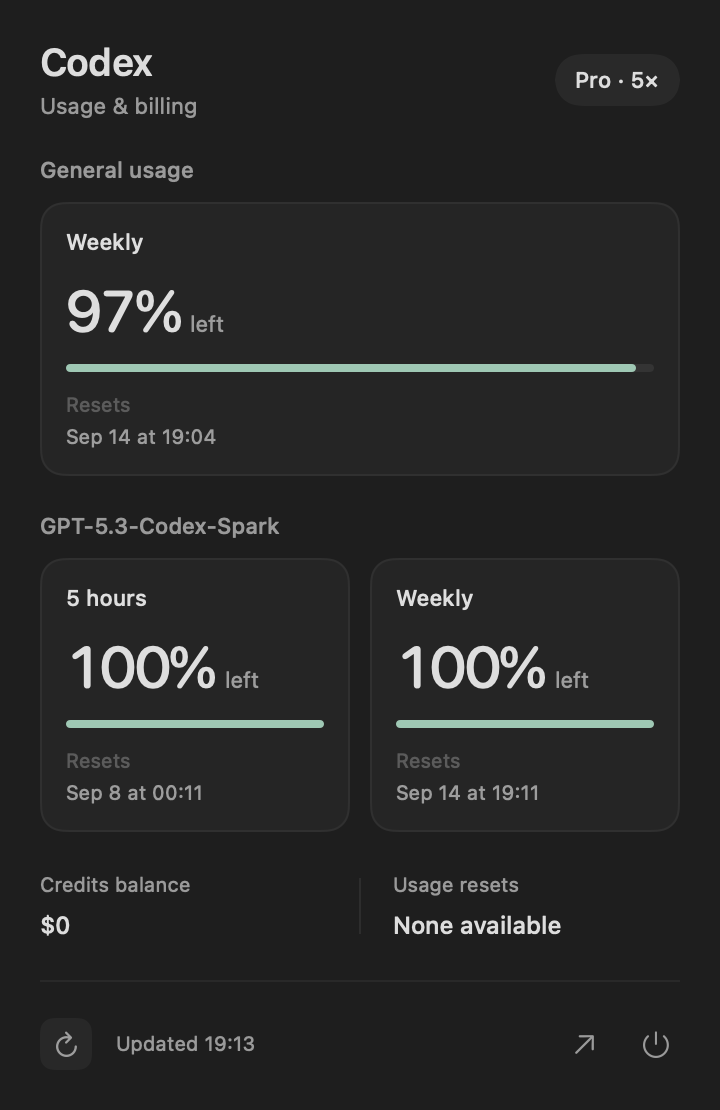
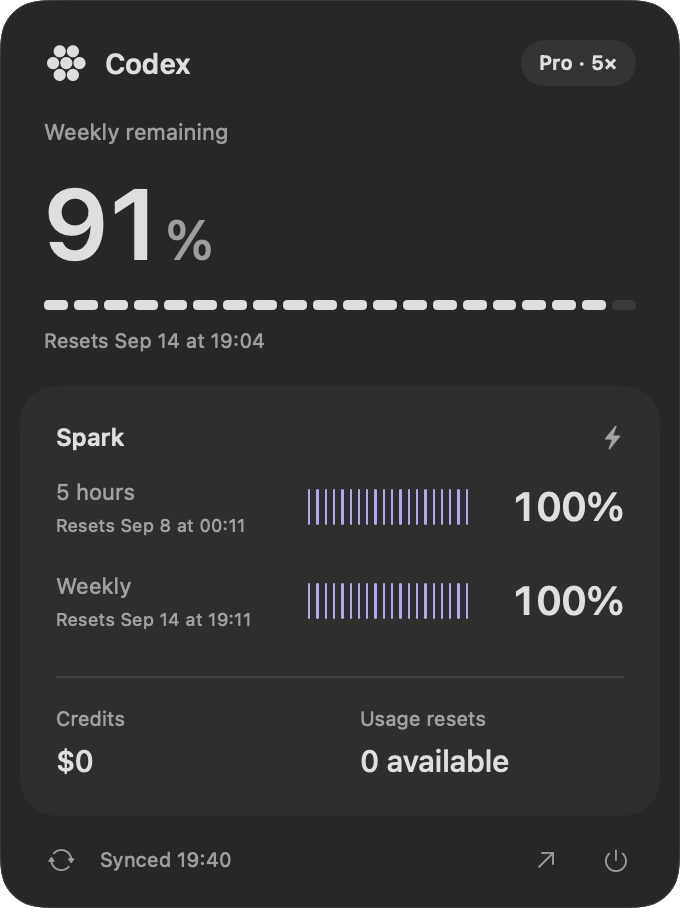
Keep quota panel on screen and add adaptive frosted design

diff --git a/Sources/CodexQuota/main.swift b/Sources/CodexQuota/main.swift
@@ -36,6 +36,7 @@ struct QuotaSnapshot {
     let resets: Int?
     var menuTitle: String {
         guard let windows = groups.first?.windows, !windows.isEmpty else { return "Codex —" }
+        if windows.count == 1 { return "\(windows[0].remaining)%" }
         return windows.map { "\($0.remaining)% · \($0.shortLabel)" }.joined(separator: "  ")
     }
     static func parse(_ json: [String: Any]) -> QuotaSnapshot {
@@ -72,110 +73,169 @@ final class QuotaModel: ObservableObject {
     @Published var updated: Date?
 }
 
+// Keep the entire panel on the screen containing the status item, including
+// secondary displays with negative origins and displays above the main screen.
+func quotaPanelFrame(anchor: NSRect, visibleFrame: NSRect) -> NSRect {
+    let safe = visibleFrame.insetBy(dx: 10, dy: 10)
+    let size = NSSize(width: min(340, safe.width), height: min(454, safe.height))
+    return NSRect(x: min(max(anchor.maxX - size.width, safe.minX), safe.maxX - size.width),
+                  y: min(max(anchor.minY - size.height - 8, safe.minY), safe.maxY - size.height),
+                  width: size.width, height: size.height)
+}
+
+struct FrostedBackground: NSViewRepresentable {
+    func makeNSView(context: Context) -> NSVisualEffectView {
+        let view = NSVisualEffectView()
+        view.material = .popover
+        view.blendingMode = .behindWindow
+        view.state = .active
+        return view
+    }
+    func updateNSView(_ view: NSVisualEffectView, context: Context) {}
+}
+
 struct QuotaPanel: View {
     @ObservedObject var model: QuotaModel
     let refresh: () -> Void
     let quit: () -> Void
-    private let accent = Color(red: 0.58, green: 0.79, blue: 0.70)
+    @Environment(\.colorScheme) private var scheme
+    @Environment(\.accessibilityReduceTransparency) private var reduceTransparency
     var body: some View {
-        VStack(alignment: .leading, spacing: 18) {
-            HStack(alignment: .center) {
-                VStack(alignment: .leading, spacing: 3) {
-                    Text("Codex").font(.system(size: 19, weight: .semibold))
-                    Text("Usage & billing").font(.system(size: 11)).foregroundStyle(.secondary)
-                }
+        VStack(spacing: 0) {
+            HStack(spacing: 8) {
+                Image(systemName: "circle.hexagongrid.fill").font(.system(size: 18, weight: .medium))
+                Text("Codex").font(.system(size: 14, weight: .semibold))
                 Spacer()
                 Text(model.snapshot?.plan ?? "Account")
-                    .font(.system(size: 11, weight: .medium))
-                    .padding(.horizontal, 10).padding(.vertical, 6)
-                    .background(.primary.opacity(0.06), in: Capsule())
-            }
-            if let snapshot = model.snapshot {
-                ForEach(Array(snapshot.groups.enumerated()), id: \.offset) { _, group in
-                    VStack(alignment: .leading, spacing: 9) {
-                        Text(group.name).font(.system(size: 11, weight: .medium)).foregroundStyle(.secondary)
-                        if group.windows.isEmpty {
-                            Text("No usage window reported").font(.system(size: 12)).foregroundStyle(.secondary)
-                        } else {
-                            HStack(alignment: .top, spacing: 10) {
-                                ForEach(Array(group.windows.enumerated()), id: \.offset) { _, window in
-                                    windowCard(window)
+                    .font(.system(size: 10, weight: .semibold))
+                    .padding(.horizontal, 9).padding(.vertical, 5)
+                    .background(.primary.opacity(0.07), in: Capsule())
+            }.padding(.horizontal, 22).padding(.top, 20).padding(.bottom, 16)
+            ScrollView {
+                VStack(alignment: .leading, spacing: 16) {
+                    if let snapshot = model.snapshot {
+                        if let general = snapshot.groups.first, !general.windows.isEmpty {
+                            HStack(alignment: .top, spacing: 20) {
+                                ForEach(Array(general.windows.enumerated()), id: \.offset) { _, window in
+                                    primaryMetric(window, single: general.windows.count == 1)
                                 }
-                            }
+                            }.padding(.horizontal, 22)
+                        } else {
+                            Text(snapshot.plan == "API" ? "Subscription usage is not available in API mode." : "No usage window reported.")
+                                .font(.system(size: 12)).foregroundStyle(.secondary).padding(.horizontal, 22)
                         }
+                        VStack(alignment: .leading, spacing: 0) {
+                            ForEach(Array(snapshot.groups.dropFirst().enumerated()), id: \.offset) { _, group in
+                                HStack {
+                                    Text(group.name.replacingOccurrences(of: "GPT-5.3-Codex-Spark", with: "Spark"))
+                                        .font(.system(size: 12, weight: .semibold))
+                                    Spacer()
+                                    Image(systemName: "bolt.fill").font(.system(size: 11)).foregroundStyle(.secondary)
+                                }.padding(.bottom, 4)
+                                ForEach(Array(group.windows.enumerated()), id: \.offset) { _, window in
+                                    additionalRow(window)
+                                }
+                                Divider().overlay(.primary.opacity(0.03)).padding(.vertical, 14)
+                            }
+                            HStack(alignment: .top, spacing: 20) {
+                                smallMetric("Credits", value: snapshot.balance ?? "Unavailable")
+                                smallMetric("Usage resets", value: snapshot.resets.map { "\($0) available" } ?? "Unavailable")
+                            }
+                        }.padding(18)
+                            .background(.primary.opacity(scheme == .dark ? 0.035 : 0.025), in: RoundedRectangle(cornerRadius: 18))
+                            .padding(.horizontal, 10)
+                    } else {
+                        HStack { ProgressView().controlSize(.small); Text("Loading usage…") }
+                            .font(.system(size: 12)).padding(22)
                     }
-                }
-                HStack(spacing: 0) {
-                    metric("Credits balance", value: snapshot.balance ?? "Unavailable")
-                    Rectangle().fill(.primary.opacity(0.08)).frame(width: 1, height: 28).padding(.horizontal, 16)
-                    metric("Usage resets", value: snapshot.resets.map { $0 == 0 ? "None available" : "\($0) available" } ?? "Unavailable")
-                }.padding(.vertical, 2)
-            } else if model.loading {
-                HStack { ProgressView().controlSize(.small); Text("Loading usage…").font(.system(size: 12)) }.padding(.vertical, 28)
-            }
-            if let error = model.error {
-                Label(error, systemImage: "exclamationmark.circle")
-                    .font(.system(size: 11)).foregroundStyle(.orange).fixedSize(horizontal: false, vertical: true)
-            }
-            Divider().opacity(0.5)
-            HStack(spacing: 12) {
-                Button(action: refresh) {
-                    Image(systemName: "arrow.clockwise").font(.system(size: 12, weight: .medium))
-                        .frame(width: 26, height: 26).background(.primary.opacity(0.05), in: RoundedRectangle(cornerRadius: 7))
-                }.buttonStyle(.plain).disabled(model.loading).help("Refresh usage (⌘R)").keyboardShortcut("r")
-                Text(model.loading ? "Refreshing…" : model.updated.map { "Updated \($0.formatted(date: .omitted, time: .shortened))" } ?? "Not updated")
-                    .font(.system(size: 10)).foregroundStyle(.secondary)
-                Spacer(minLength: 0)
-                Button(action: {
-                    NSWorkspace.shared.open(URL(string: "https://chatgpt.com/codex/settings/usage")!)
-                }) {
-                    Image(systemName: "arrow.up.right").frame(width: 24, height: 26)
-                }.buttonStyle(.plain).help("Open usage & billing")
-                Button(action: quit) {
-                    Image(systemName: "power").frame(width: 24, height: 26)
-                }.buttonStyle(.plain).help("Quit CodexQuota (⌘Q)").keyboardShortcut("q")
-            }.foregroundStyle(.secondary)
+                    if let error = model.error {
+                        Label(error, systemImage: "exclamationmark.circle")
+                            .font(.system(size: 11)).foregroundStyle(.orange)
+                            .padding(.horizontal, 22).fixedSize(horizontal: false, vertical: true)
+                    }
+                }.padding(.bottom, 8)
+            }.scrollIndicators(.hidden)
+            HStack(spacing: 7) {
+                Button(action: refresh) { Image(systemName: "arrow.triangle.2.circlepath").frame(width: 25, height: 28) }
+                    .disabled(model.loading).keyboardShortcut("r").help("Refresh usage")
+                Text(model.loading ? "Syncing…" : model.updated.map { "Synced \($0.formatted(date: .omitted, time: .shortened))" } ?? "Not synced")
+                    .font(.system(size: 10))
+                Spacer()
+                Button(action: { NSWorkspace.shared.open(URL(string: "https://chatgpt.com/codex/settings/usage")!) }) {
+                    Image(systemName: "arrow.up.right").frame(width: 28, height: 28)
+                }.help("Open usage & billing")
+                Button(action: quit) { Image(systemName: "power").frame(width: 28, height: 28) }
+                    .keyboardShortcut("q").help("Quit CodexQuota")
+            }.buttonStyle(.plain).font(.system(size: 11)).foregroundStyle(.secondary)
+                .padding(.horizontal, 18).padding(.top, 4).padding(.bottom, 10)
         }
-        .padding(20).frame(width: 360)
-        .background(Color(nsColor: .windowBackgroundColor))
+        .background {
+            if reduceTransparency { Color(nsColor: .windowBackgroundColor) }
+            else {
+                FrostedBackground()
+                    .overlay(scheme == .dark ? Color.black.opacity(0.48) : Color.white.opacity(0.35))
+            }
+        }
+        .clipShape(RoundedRectangle(cornerRadius: 22))
+        .overlay(RoundedRectangle(cornerRadius: 22).strokeBorder(.primary.opacity(0.1), lineWidth: 0.5))
     }
-    private func metric(_ title: String, value: String) -> some View {
-        VStack(alignment: .leading, spacing: 6) {
-            Text(title).font(.system(size: 10)).foregroundStyle(.secondary)
-            Text(value).font(.system(size: 12, weight: .medium)).monospacedDigit()
+    private func primaryMetric(_ window: QuotaWindow, single: Bool) -> some View {
+        VStack(alignment: .leading, spacing: 9) {
+            Text("\(window.label) remaining").font(.system(size: 11)).foregroundStyle(.secondary)
+            HStack(alignment: .firstTextBaseline, spacing: 1) {
+                Text("\(window.remaining)").font(.system(size: single ? 50 : 38, weight: .semibold)).tracking(-2)
+                Text("%").font(.system(size: single ? 28 : 20, weight: .medium)).foregroundStyle(.secondary)
+            }.monospacedDigit()
+            meter(window, color: .primary, height: 5)
+            Text(resetText(window)).font(.system(size: 10)).foregroundStyle(.secondary)
+                .fixedSize(horizontal: false, vertical: true)
         }.frame(maxWidth: .infinity, alignment: .leading)
     }
-    private func windowCard(_ window: QuotaWindow) -> some View {
-        let tint = window.remaining <= 10 ? Color.red : window.remaining <= 25 ? Color.orange : accent
-        return VStack(alignment: .leading, spacing: 10) {
-            HStack(alignment: .firstTextBaseline) {
-                Text(window.label).font(.system(size: 11, weight: .medium))
-                Spacer(minLength: 0)
-            }
-            HStack(alignment: .firstTextBaseline, spacing: 4) {
-                Text("\(window.remaining)%").font(.system(size: 29, weight: .medium, design: .rounded)).tracking(-1).monospacedDigit()
-                Text("left").font(.system(size: 11)).foregroundStyle(.secondary)
-            }
-            GeometryReader { geometry in
-                ZStack(alignment: .leading) {
-                    Capsule().fill(.primary.opacity(0.08))
-                    Capsule().fill(tint).frame(width: geometry.size.width * Double(window.remaining) / 100)
-                }
-            }.frame(height: 4).accessibilityLabel("\(window.remaining) percent remaining")
-            VStack(alignment: .leading, spacing: 3) {
-                Text("Resets").foregroundStyle(.tertiary)
-                Text(window.reset.map { $0.formatted(.dateTime.month(.abbreviated).day().hour().minute()) } ?? "Not reported")
-                    .foregroundStyle(.secondary)
-            }.font(.system(size: 10)).fixedSize(horizontal: false, vertical: true)
-        }.padding(13).frame(maxWidth: .infinity, alignment: .leading)
-            .background(.primary.opacity(0.035), in: RoundedRectangle(cornerRadius: 12))
-            .overlay(RoundedRectangle(cornerRadius: 12).strokeBorder(.primary.opacity(0.06), lineWidth: 1))
+    private func additionalRow(_ window: QuotaWindow) -> some View {
+        HStack(spacing: 16) {
+            VStack(alignment: .leading, spacing: 4) {
+                Text(window.label).font(.system(size: 11)).foregroundStyle(.secondary)
+                Text(resetText(window)).font(.system(size: 9)).foregroundStyle(.secondary)
+            }.frame(width: 110, alignment: .leading)
+            meter(window, color: scheme == .dark ? Color(red: 0.73, green: 0.65, blue: 0.98) : Color(red: 0.43, green: 0.31, blue: 0.72), height: 18)
+            Text("\(window.remaining)%").font(.system(size: 20, weight: .semibold)).monospacedDigit()
+                .lineLimit(1).fixedSize(horizontal: true, vertical: false)
+                .frame(width: 62, alignment: .trailing)
+        }.padding(.vertical, 9)
     }
+    private func meter(_ window: QuotaWindow, color: Color, height: CGFloat) -> some View {
+        GeometryReader { geometry in
+            HStack(spacing: 3) {
+                ForEach(0..<20) { index in
+                    RoundedRectangle(cornerRadius: 2)
+                        .fill(index < Int(ceil(Double(window.remaining) / 5)) ? (window.remaining <= 10 ? Color.orange : color) : .primary.opacity(0.1))
+                }
+            }.frame(width: geometry.size.width)
+        }.frame(height: height).accessibilityLabel("\(window.remaining) percent remaining")
+    }
+    private func resetText(_ window: QuotaWindow) -> String {
+        guard let date = window.reset else { return "Reset not reported" }
+        return "Resets " + (Calendar.current.isDateInToday(date) ? date.formatted(date: .omitted, time: .shortened) : date.formatted(.dateTime.month(.abbreviated).day().hour().minute()))
+    }
+    private func smallMetric(_ label: String, value: String) -> some View {
+        VStack(alignment: .leading, spacing: 5) {
+            Text(label).font(.system(size: 10)).foregroundStyle(.secondary)
+            Text(value).font(.system(size: 15, weight: .medium)).monospacedDigit()
+        }.frame(maxWidth: .infinity, alignment: .leading)
+    }
+}
+
+final class QuotaWindowPanel: NSPanel {
+    override var canBecomeKey: Bool { true }
+    override var canBecomeMain: Bool { false }
+    override func cancelOperation(_ sender: Any?) { orderOut(nil) }
 }
 
 final class AppDelegate: NSObject, NSApplicationDelegate {
     private var statusItem: NSStatusItem!
-    private let popover = NSPopover()
+    private let panel = QuotaWindowPanel(contentRect: .zero, styleMask: [.borderless, .nonactivatingPanel], backing: .buffered, defer: false)
+    private var outsideMonitor: Any?
+    private var localMonitor: Any?
     private let model = QuotaModel()
     func applicationDidFinishLaunching(_ notification: Notification) {
         NSApp.setActivationPolicy(.accessory)
@@ -184,18 +244,39 @@ final class AppDelegate: NSObject, NSApplicationDelegate {
         statusItem.button?.font = .monospacedDigitSystemFont(ofSize: 12, weight: .medium)
         statusItem.button?.target = self
         statusItem.button?.action = #selector(togglePopover)
-        popover.behavior = .transient
-        popover.animates = false
-        popover.contentViewController = NSHostingController(rootView: QuotaPanel(model: model, refresh: { [weak self] in self?.refresh() }, quit: { NSApp.terminate(nil) }))
+        panel.isOpaque = false
+        panel.backgroundColor = .clear
+        panel.hasShadow = true
+        panel.level = .popUpMenu
+        panel.collectionBehavior = [.canJoinAllSpaces, .fullScreenAuxiliary]
+        panel.hidesOnDeactivate = true
+        panel.isReleasedWhenClosed = false
+        let host = NSHostingView(rootView: QuotaPanel(model: model, refresh: { [weak self] in self?.refresh() }, quit: { NSApp.terminate(nil) }))
+        host.sizingOptions = []
+        panel.contentView = host
+        outsideMonitor = NSEvent.addGlobalMonitorForEvents(matching: [.leftMouseDown, .rightMouseDown]) { [weak self] _ in self?.panel.orderOut(nil) }
+        localMonitor = NSEvent.addLocalMonitorForEvents(matching: [.leftMouseDown, .rightMouseDown, .keyDown]) { [weak self] event in
+            guard let self, self.panel.isVisible else { return event }
+            if event.type == .keyDown && event.keyCode == 53 { self.panel.orderOut(nil); return nil }
+            if event.type != .keyDown && event.window !== self.panel && event.window !== self.statusItem.button?.window { self.panel.orderOut(nil) }
+            return event
+        }
+        NotificationCenter.default.addObserver(self, selector: #selector(screenChanged), name: NSApplication.didChangeScreenParametersNotification, object: nil)
         refresh()
         Timer.scheduledTimer(withTimeInterval: 60, repeats: true) { [weak self] _ in self?.refresh() }
     }
+    @objc private func screenChanged() { if panel.isVisible { positionPanel() } }
+    private func positionPanel() {
+        guard let button = statusItem.button, let window = button.window else { return }
+        let anchor = window.convertToScreen(button.convert(button.bounds, to: nil))
+        guard let screen = NSScreen.screens.first(where: { $0.frame.contains(NSPoint(x: anchor.midX, y: anchor.midY)) }) ?? window.screen else { return }
+        panel.setFrame(quotaPanelFrame(anchor: anchor, visibleFrame: screen.visibleFrame), display: true)
+    }
     @objc private func togglePopover() {
-        if popover.isShown { popover.performClose(nil) }
-        else if let button = statusItem.button {
-            NSApp.activate(ignoringOtherApps: true)
-            popover.show(relativeTo: button.bounds, of: button, preferredEdge: .minY)
-            popover.contentViewController?.view.window?.makeKey()
+        if panel.isVisible { panel.orderOut(nil) }
+        else {
+            positionPanel()
+            panel.makeKeyAndOrderFront(nil)
             refresh()
         }
     }
@@ -213,6 +294,7 @@ final class AppDelegate: NSObject, NSApplicationDelegate {
                     self.model.error = nil
                     self.model.updated = Date()
                     self.statusItem.button?.title = snapshot.menuTitle
+                    if self.panel.isVisible { self.positionPanel() }
                     self.statusItem.button?.toolTip = "Codex · " + snapshot.groups.flatMap { group in group.windows.map { "\(group.name), \($0.label): \($0.remaining)% left" } }.joined(separator: "\n")
                 case .failure(let error):
                     self.model.error = error.localizedDescription

diff --git a/scripts/test-parser.swift b/scripts/test-parser.swift
@@ -1,7 +1,7 @@
 // Run via scripts/test-parser.sh (the app model is prepended).
 func window(_ seconds: Int, _ used: Int) -> [String: Any] { ["limit_window_seconds": seconds, "used_percent": used, "reset_at": 1789405468] }
 let weekly = QuotaSnapshot.parse(["plan_type": "prolite", "rate_limit": ["primary_window": window(604800, 3), "secondary_window": NSNull()], "additional_rate_limits": [["limit_name": "Spark", "rate_limit": ["primary_window": window(18000, 0), "secondary_window": window(604800, 0)]]], "credits": ["balance": "0"], "rate_limit_reset_credits": ["available_count": 0]])
-assert(weekly.menuTitle == "97% · week")
+assert(weekly.menuTitle == "97%")
 assert(weekly.groups[1].windows.map(\.label) == ["5 hours", "Weekly"])
 assert(weekly.resets == 0)
 let plus = QuotaSnapshot.parse(["rate_limit": ["primary_window": window(18000, 20), "secondary_window": window(604800, 50)]])
@@ -11,3 +11,10 @@ assert(reversed.groups[0].windows.map(\.remaining) == [100, 0])
 assert(QuotaSnapshot.parse([:]).menuTitle == "Codex —")
 assert(QuotaSnapshot.parse([:]).resets == nil)
 print("Passed: weekly-only Pro, Spark, dual-window Plus, swapped windows, clamping, missing data")
+
+let unknown = QuotaSnapshot.parse(["plan_type": "future-plan", "rate_limit": ["secondary_window": window(604800, 0)]])
+assert(unknown.menuTitle == "100%")
+let proWithTwo = QuotaSnapshot.parse(["plan_type": "pro", "rate_limit": ["primary_window": window(18000, 10), "secondary_window": window(604800, 20)]])
+assert(proWithTwo.groups[0].windows.count == 2)
+assert(proWithTwo.menuTitle == "90% · 5h  80% · week")
+print("Passed: unknown single-window plan, retain all server-reported Pro windows")

diff --git a/README.md b/README.md
@@ -2,12 +2,13 @@
 
 **Your Codex limits, one glance away.** A tiny native macOS menu-bar app showing remaining usage, reset times, and a compact account overview. The installed app is called **CodexQuota**.
 
-<p align="center"><img src="docs/screenshot.png" alt="CodexQuota popup with a weekly usage card, two Spark limit cards, credit balance and available resets" width="360"></p>
+<p align="center"><img src="docs/screenshot.png" alt="CodexQuota popup with a weekly usage card, two Spark limit cards, credit balance and available resets" width="340"> <img src="docs/screenshot-light.png" alt="Light theme" width="340"></p>
 <p align="center"><sub>Native interface rendered with example data.</sub></p>
 
-- **Always visible:** remaining quota with clear `5h` / `week` labels.
+- **Always visible:** remaining quota as a single percentage for one window; `5h` / `week` labels only when there are multiple windows.
 - **One click:** general and Spark limits, reset dates, plan, credits, and available resets.
 - **Stays current:** refreshes every minute and when opened; supports weekly-only plans.
+- **Native feel:** frosted background, automatic light/dark themes, and a panel kept inside the current display.
 - **Small and private:** SwiftUI + AppKit, no dependencies, no analytics, no task-history access.
 
 ## Install with Codex
@@ -46,6 +47,7 @@ This is an unofficial tool, not affiliated with OpenAI. It uses an undocumented 
 ```sh
 swift build -c release
 zsh scripts/test-parser.sh
+zsh scripts/test-panel.sh
 ```
 
 To uninstall, quit CodexQuota and move `CodexQuota.app` from its installation folder to Trash. The app does not modify your Codex account or set up automatic launch at login.
